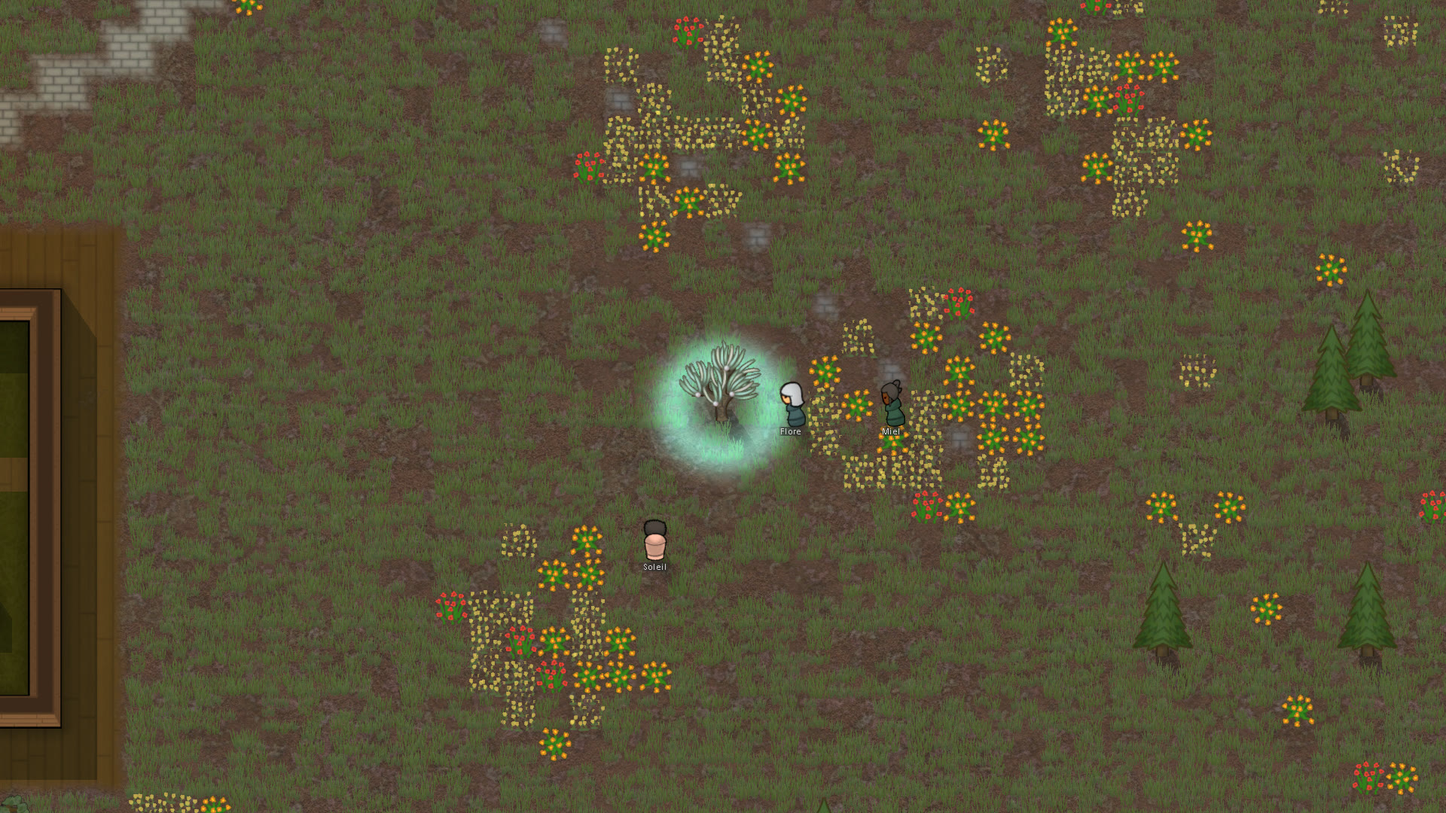
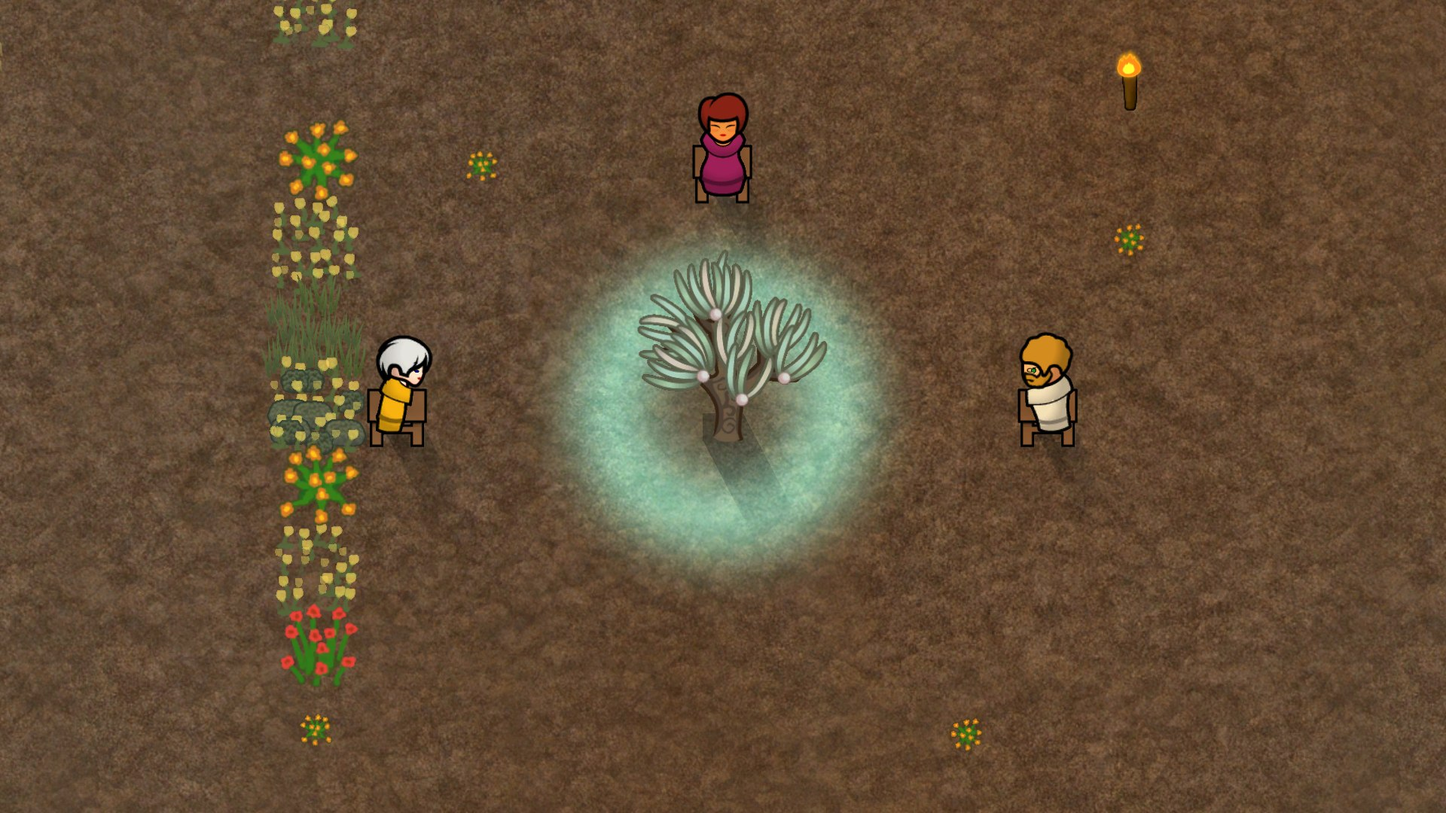
Gallery: image 1 on stools; tests: roofed tree still obeys a manual order
Image 1 is now the seated ring of run 342d (stools set, each pawn placed with
stands at ... facing). Scenario 05 places the stools and faces Nelim south.
Scenario 03 gains a roofed-tree manual-order check for a user report.

diff --git a/PUBLICATION.md b/PUBLICATION.md
@@ -201,3 +201,5 @@ series, a common set, chosen subjects. For this mod:
 - **Image 2 replaced (owner, 2026-10-08)**: `2-the-right-click-menu.jpg` is now the 20C menu picture of run `19c9` (no one in the frame), a 1280 px JPEG copy of the capture (the 1920 px PNG had already been trimmed). Redo from the scenario if a full-size one is wanted.
 
 - **At the publish (owner, 2026-10-08): send the preview image again.** The 1.0.x dispatch carries `update_preview=true` (`dispatch-publish.sh … --preview`; the dry-run `37768907181` ran with it), so `Mod/About/Preview.png` replaces the header image on the Steam page. The gallery stays a manual upload; the description is not sent (no change).
+
+- **Image 1 replaced (owner, 2026-10-09)**: `1-the-tree-singing.jpg` is now the JPEG copy (400 KB, quality 88) of run `342d` (`pickle-run-2026-10-09-stools2`, scene `bare-clearing`, 1 of 1 passed). Three stools set with `I place the decor "Stool"`, each pawn put on one with `stands at ... facing` (Nelim north of the tree facing South, Flore west facing East, Soleil east facing West): seated ring around the tree, halo, torch and dyed robes read, no interface. Run `176a` (same, Nelim facing North) was refused: Nelim had her back to the tree. Remaining flaw: the daylilies sit in a strip on the left edge.
